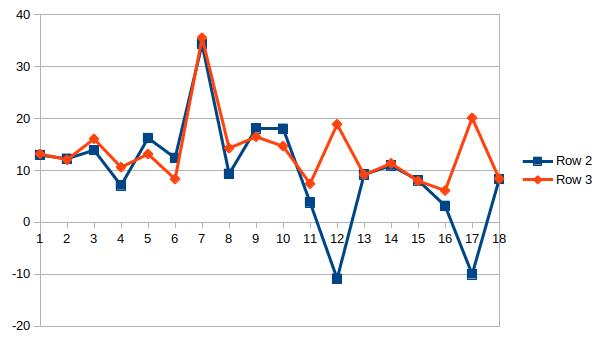
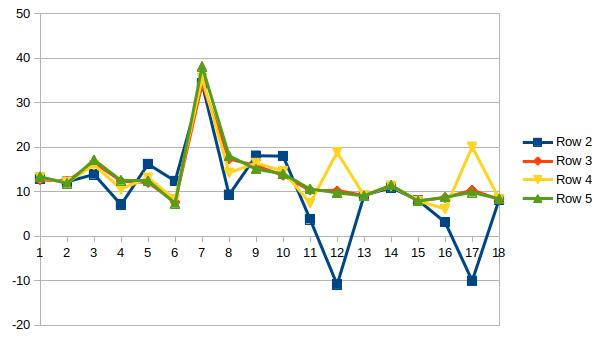
added the report

diff --git a/src/camFusion_Student.cpp b/src/camFusion_Student.cpp
@@ -201,7 +201,7 @@ void computeTTCCamera(std::vector<cv::KeyPoint> &kptsPrev, std::vector<cv::KeyPo
 void computeTTCLidar(std::vector<LidarPoint> &lidarPointsPrev,
                      std::vector<LidarPoint> &lidarPointsCurr, double frameRate, double &TTC)
 {
-    int average_factor = 4;
+    int average_factor = 25;
     int start_from = 1;
     partial_sort(lidarPointsCurr.begin(),lidarPointsCurr.begin()+ average_factor + start_from,lidarPointsCurr.end(),[](LidarPoint p1, LidarPoint p2) {
         return p1.x < p2.x;

diff --git a/README.md b/README.md
@@ -33,3 +33,41 @@ In this final project, you will implement the missing parts in the schematic. To
 2. Make a build directory in the top level project directory: `mkdir build && cd build`
 3. Compile: `cmake .. && make`
 4. Run it: `./3D_object_tracking`.
+
+## Performance Evaluation
+
+All the experiment results are found in matching_3D_project.xlsx.
+
+#### LIDAR TTC
+For the lidar ttc without any adjustments to the code, one can see that it has 3 unreasonable measurements,
+at frame 7, 12 and 17. These measurements are unreasonable 
+because if one obseves the 3D viewer he can see that the proceeding car is always approaching at a contant rate, 
+this means the ttc should be relatively constant or slightly decreasing.
+in frame 7, I think the value is too high, 
+and for frames 12 and 17 the value is negative which can't happen when a car is approaching.
+
+The reason for this is that some outlier measurement are found between the ego
+and proceeding car, which can happen because of dust or rain. 
+One solution is to remove the closest point and look at the second closest. This solution was tested 
+and it's results are saved in the second row of the results file. 
+It can be seen that negative estimations are removed which is great.
+
+The first solution assumes that there is only one outlier which is not always the case, 
+to make the solution more robust one can take an average of N closest points and 
+use that average as the distance estimate. The results of this solution are found in the third and fourth row of the result file.
+It can be seen that this method gives smother TTC estimates compared to the solution of removing the minimum.
+
+This figure summaries the LIDAR TTC results
+<img src="LIDAR.jpg" width="779" height="414" /> 
+
+#### Camera TTC
+
+The best keypoint detector is FAST because it's ttc estimation is smooth using all discriptors.
+One reason for this is because of high number of matching pairs which will help give 
+a more robust median calculation for the ttc calculation.
+an other good keypoint detector is AKAZE which was shown in the previous assignment that 
+it had the highest percentage of inliers which means the keypoints themselves are suited for the task.
+
+one figure for each keypoint detector is available in the repo. 
+
+    
